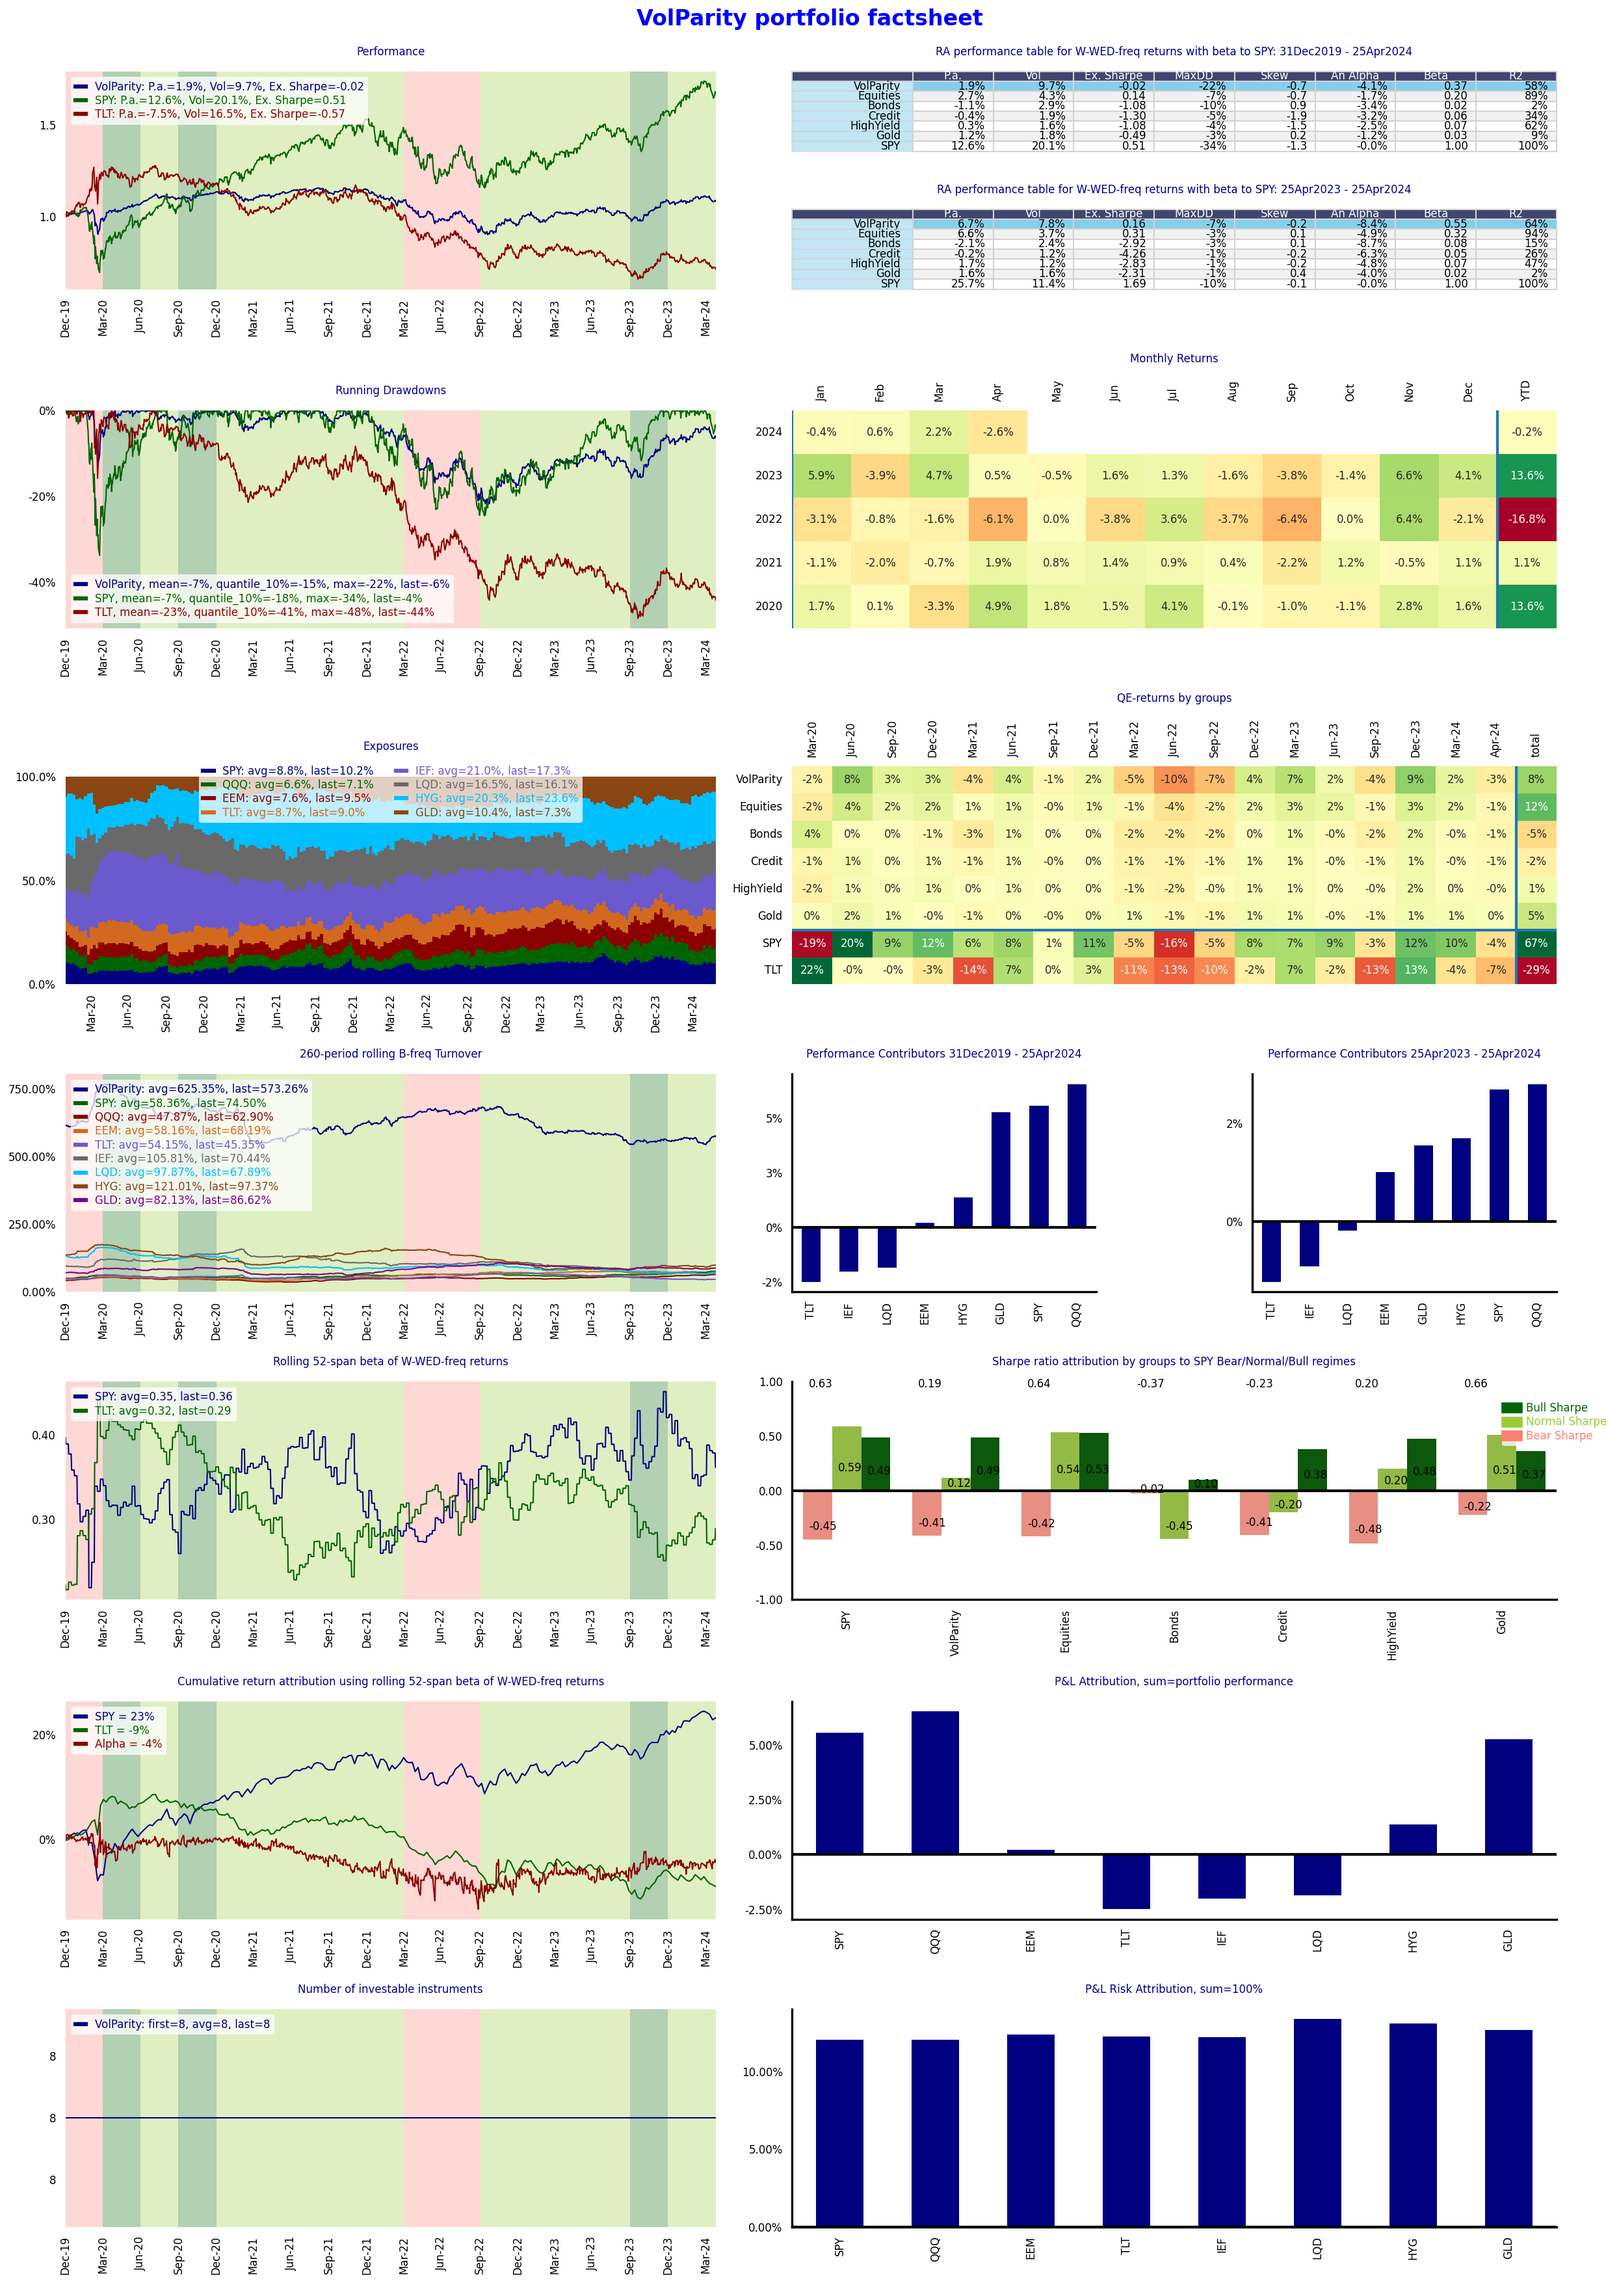
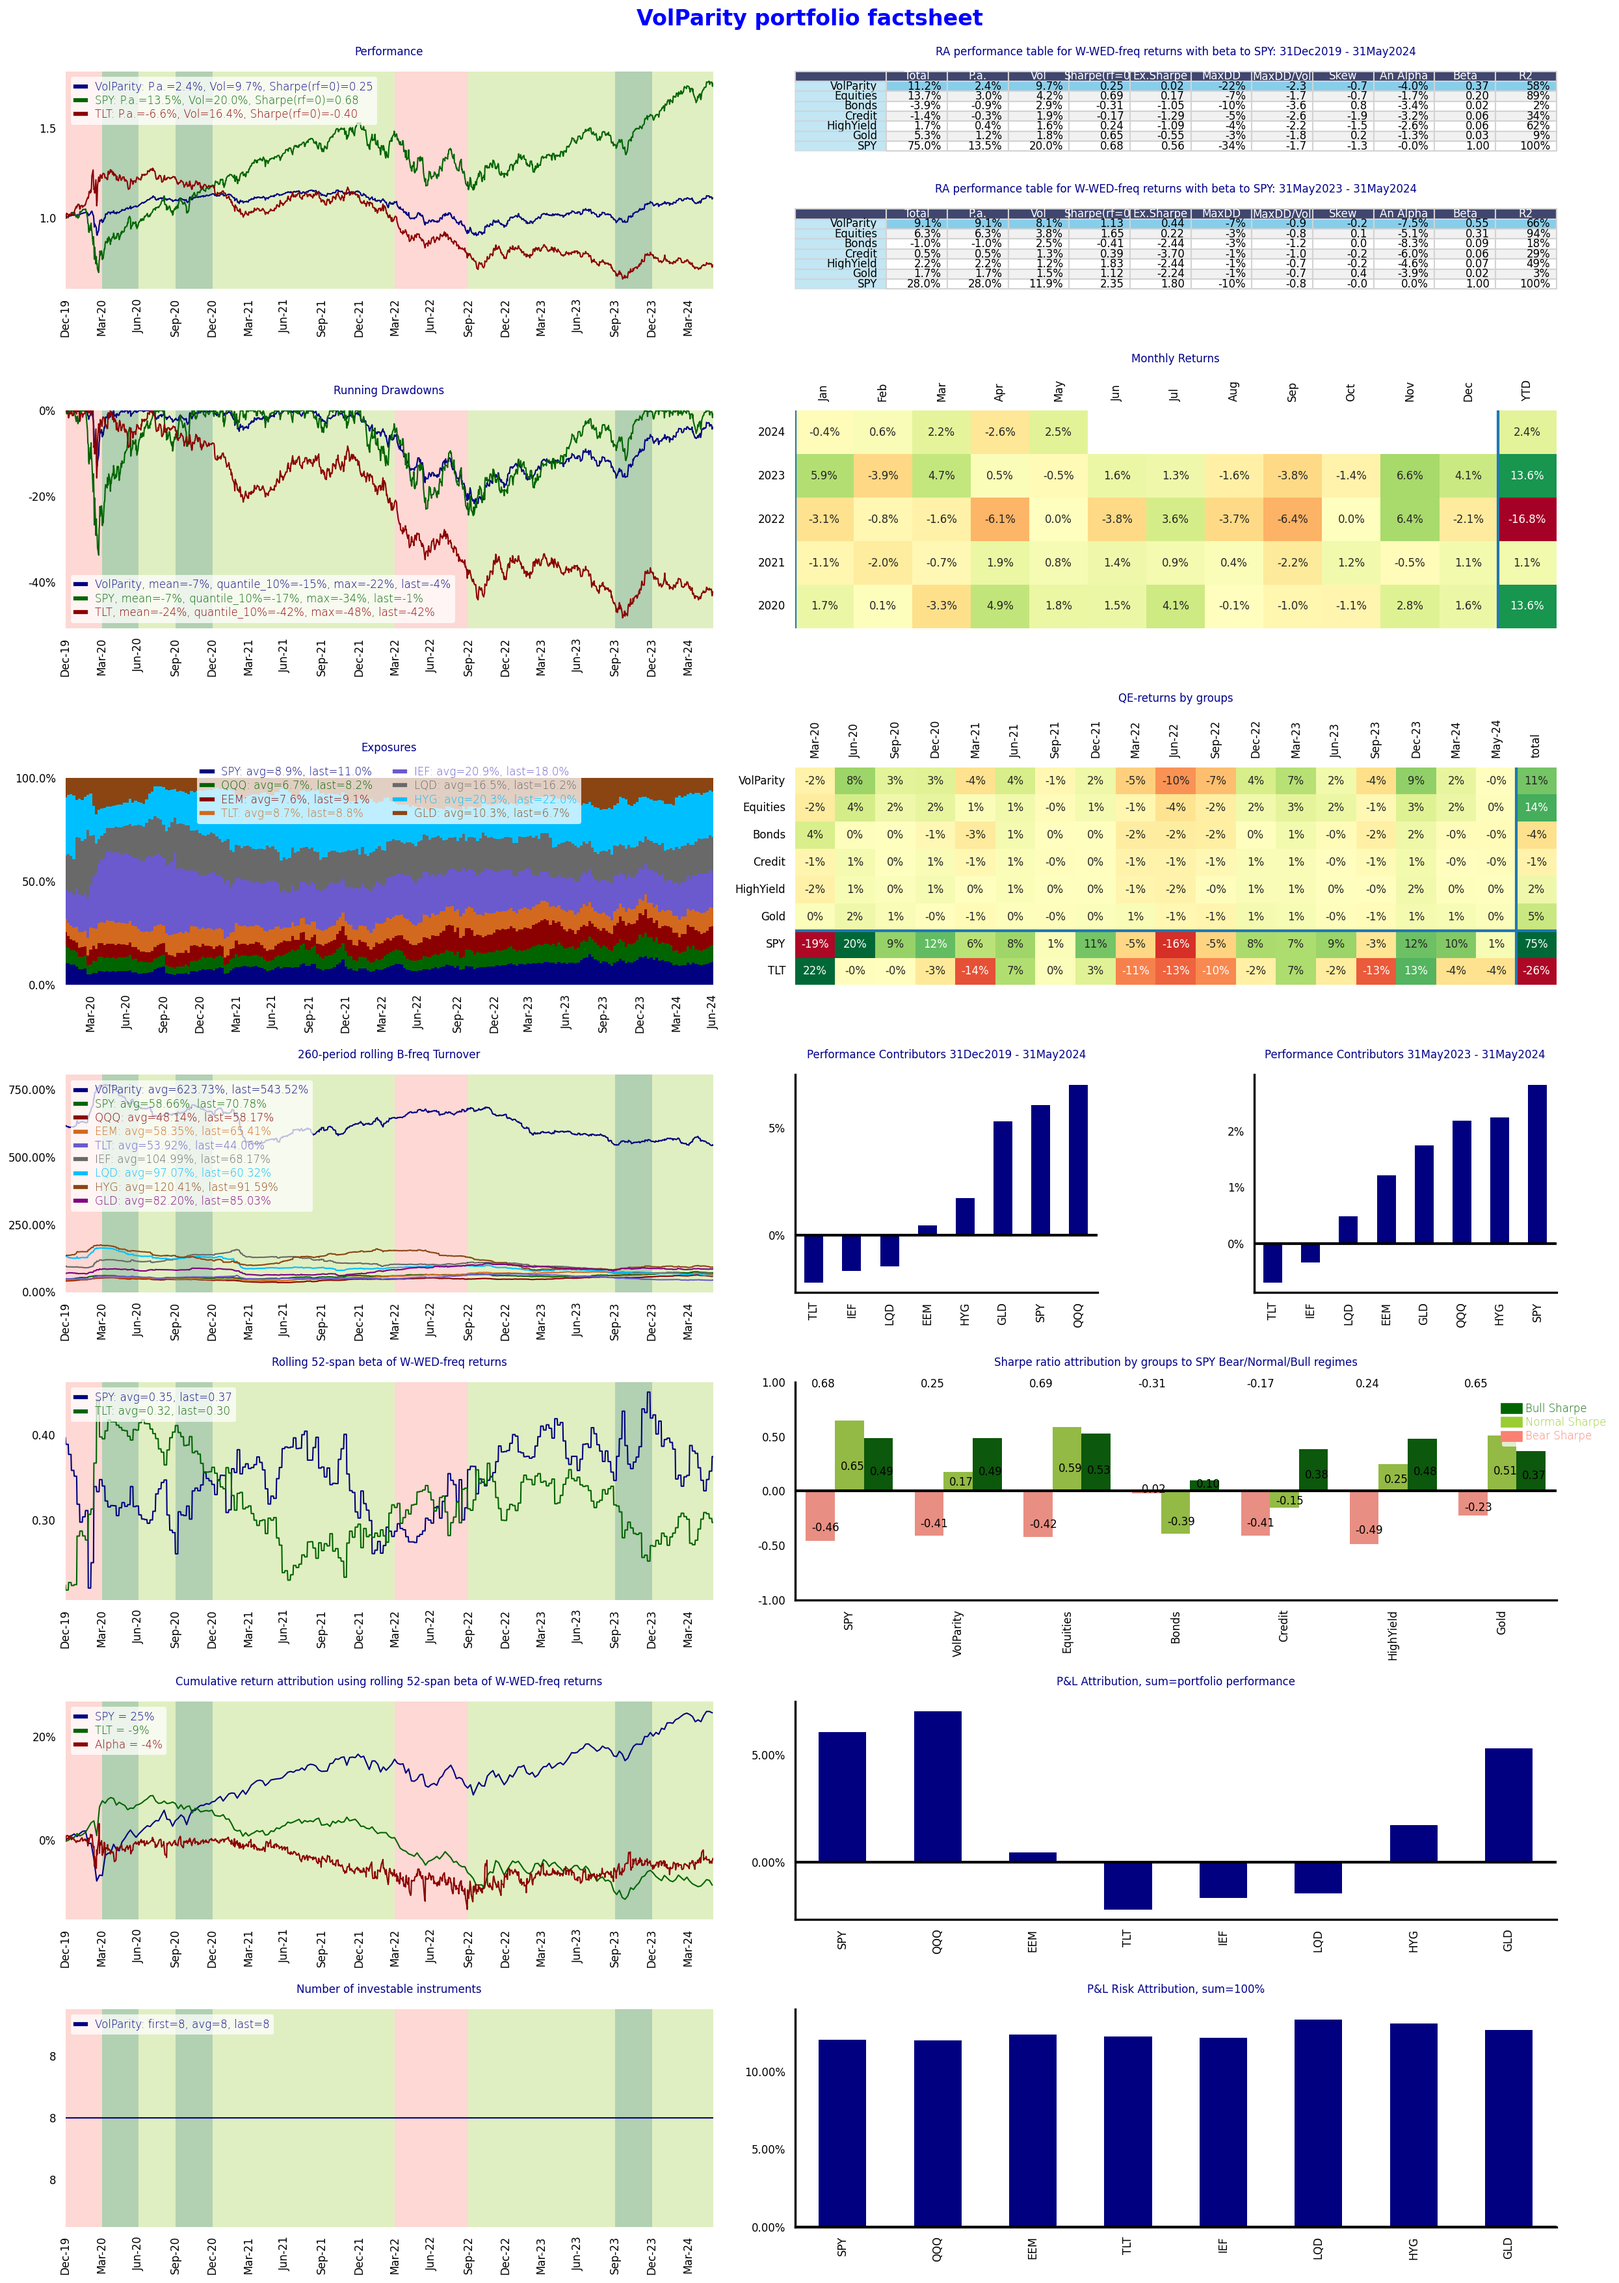
make default display of sharpe ratio to Sharpe(rf=0)

diff --git a/qis/examples/factsheets/multi_assets.py b/qis/examples/factsheets/multi_assets.py
@@ -15,6 +15,7 @@ from qis.portfolio.reports.config import fetch_default_report_kwargs
 class UnitTests(Enum):
     CORE_ETFS = 1
     BTC_SQQQ = 2
+    HEDGED_ETFS = 3
 
 
 def run_unit_test(unit_test: UnitTests):
@@ -22,22 +23,32 @@ def run_unit_test(unit_test: UnitTests):
     if unit_test == UnitTests.CORE_ETFS:
         benchmark = 'SPY'
         tickers = [benchmark, 'QQQ', 'EEM', 'TLT', 'IEF', 'LQD', 'HYG', 'SHY', 'GLD']
-        time_period = qis.TimePeriod('31Dec2007', '25Apr2024')  # time period for reporting
+        time_period = qis.TimePeriod('31Dec2007', '31May2024')  # time period for reporting
 
     elif unit_test == UnitTests.BTC_SQQQ:
         benchmark = 'QQQ'
         tickers = [benchmark, 'BTC-USD', 'TQQQ', 'SQQQ']
-        time_period = qis.TimePeriod('31Dec2019', '25Apr2024')
+        time_period = qis.TimePeriod('31Dec2019', '31May2024')
+
+    elif unit_test == UnitTests.HEDGED_ETFS:
+        benchmark = 'SPY'
+        tickers = [benchmark, 'SHY', 'LQDH', 'HYGH', 'FLOT']
+        time_period = qis.TimePeriod('27May2014', '31May2024')
 
     else:
         raise NotImplementedError
 
     prices = yf.download(tickers=tickers, start=None, end=None, ignore_tz=True)['Adj Close'][tickers]
     prices = prices.asfreq('B', method='ffill')  # make B frequency
+    prices = prices.dropna()
+    print(prices)
+
+    kwargs = fetch_default_report_kwargs(time_period=time_period)
+
     fig = generate_multi_asset_factsheet(prices=prices,
                                          benchmark=benchmark,
                                          time_period=time_period,
-                                         **fetch_default_report_kwargs(time_period=time_period))
+                                         **kwargs)
     qis.save_figs_to_pdf(figs=[fig],
                          file_name=f"multiasset_report", orientation='landscape',
                          local_path=qis.local_path.get_output_path())
@@ -48,7 +59,7 @@ def run_unit_test(unit_test: UnitTests):
 
 if __name__ == '__main__':
 
-    unit_test = UnitTests.CORE_ETFS
+    unit_test = UnitTests.HEDGED_ETFS
 
     is_run_all_tests = False
     if is_run_all_tests:

diff --git a/qis/examples/credit_spreads.py b/qis/examples/credit_spreads.py
@@ -1,0 +1,44 @@
+
+import pandas as pd
+import numpy as np
+import seaborn as sns
+import matplotlib.pyplot as plt
+import qis as qis
+from qis import PerfStat
+from bbg_fetch import fetch_field_timeseries_per_tickers
+
+assets = {'BASPCAAA Index': 'AAA10y',
+          'BICLA10Y Index': 'A10y',
+          'BICLB10Y Index': 'BAA10y',
+          'CSI BARC Index': 'HY 10Y'}
+
+spreads = fetch_field_timeseries_per_tickers(tickers=list(assets.keys()), field='PX_LAST', CshAdjNormal=True)
+spreads = spreads.rename(assets, axis=1)
+spreads['HY 10Y'] = 100.0*spreads['HY 10Y']
+# to %
+spreads = spreads / 10000.0
+
+predictors = {'SPXT Index': 'SPX', 'gt10 Govt': 'UST10y'}
+benchmarks = fetch_field_timeseries_per_tickers(tickers=list(predictors.keys()), field='PX_LAST', CshAdjNormal=True)
+benchmarks = benchmarks.rename(predictors, axis=1)
+print(benchmarks)
+qis.plot_time_series(spreads,
+                     var_format='{:,.2%}', x_date_freq='YE')
+
+freq = 'ME'
+
+df1 = pd.concat([benchmarks['SPX'].asfreq(freq, method='ffill').pct_change(),
+                 spreads.asfreq(freq, method='ffill').diff()], axis=1).dropna()
+
+qis.plot_scatter(df=df1, x='SPX')
+
+df2 = pd.concat([benchmarks['UST10y'].asfreq(freq, method='ffill').diff()/100.0,
+                 spreads.asfreq(freq, method='ffill').diff()], axis=1).dropna()
+
+qis.plot_scatter(df=df2, x='UST10y')
+
+plt.show()
+
+
+
+

diff --git a/qis/perfstats/config.py b/qis/perfstats/config.py
@@ -55,8 +55,8 @@ class PerfStat(ColVar, Enum):
     VOL = ColVar(name='Vol', short_n='An. vol', value_type=ValueType.PERCT)
     DOWNSIDE_VOL = ColVar(name='DownVol', short_n='DownVol', value_type=ValueType.PERCT)
     AVG_LOG_RETURN = ColVar(name='AvgLogReturn', short_n='AvgReturn', value_type=ValueType.PERCT)
-    SHARPE_RF0 = ColVar(name='Sharpe (rf=0)', short='Sharpe (rf=0)', short_n='Sharpe\n(rf=0)', value_type=ValueType.SHARPE)  # compounded returns with rate = 0.0
-    SHARPE_EXCESS = ColVar(name='Ex. Sharpe', short_n='Excess\nSharpe', value_type=ValueType.SHARPE)  # compunded with given rate
+    SHARPE_RF0 = ColVar(name='Sharpe (rf=0)', short='Sharpe(rf=0)', short_n='Sharpe\n(rf=0)', value_type=ValueType.SHARPE)  # compounded returns with rate = 0.0
+    SHARPE_EXCESS = ColVar(name='Ex. Sharpe', short='Ex.Sharpe', short_n='Excess\nSharpe', value_type=ValueType.SHARPE)  # compunded with given rate
     SHARPE_LOG_AN = ColVar(name='An. Log Sharpe', short_n='An. Log Sharpe', value_type=ValueType.SHARPE)  # log return
     SHARPE_AVG = ColVar(name='Sharpe Avg', short_n='Sharpe Avg', value_type=ValueType.SHARPE)  # using avg return
     SHARPE_LOG_EXCESS = ColVar(name='Log Sharpe', short_n='Log Sharpe', value_type=ValueType.SHARPE)

diff --git a/qis/portfolio/reports/multi_assets_factsheet.py b/qis/portfolio/reports/multi_assets_factsheet.py
@@ -85,7 +85,8 @@ class MultiAssetsReport:
                            perf_columns: List[PerfStat] = qis.BENCHMARK_TABLE_COLUMNS,
                            title: Optional[str] = None,
                            ax: plt.Subplot = None,
-                           **kwargs) -> None:
+                           **kwargs
+                           ) -> None:
         prices = self.get_prices(benchmark, time_period=time_period)
         title = title or f"RA performance table for {self.perf_params.freq_vol}-freq returns with beta to {benchmark}: {qis.get_time_period(prices).to_str()}"
         if len(prices.columns) >= 12:
@@ -406,7 +407,6 @@ def generate_multi_asset_factsheet(prices: pd.DataFrame,
                                    factsheet_name: str = None,
                                    **kwargs
                                    ) -> plt.Figure:
-
     # use passed benchmark
     if benchmark is None and benchmark_prices is not None:
         if benchmark_prices is None:

diff --git a/qis/portfolio/reports/config.py b/qis/portfolio/reports/config.py
@@ -12,6 +12,7 @@ REGIME_PARAMS = BenchmarkReturnsQuantileRegimeSpecs(freq='QE')
 PERF_COLUMNS = (PerfStat.TOTAL_RETURN,
                 PerfStat.PA_RETURN,
                 PerfStat.VOL,
+                PerfStat.SHARPE_RF0,
                 PerfStat.SHARPE_EXCESS,
                 PerfStat.MAX_DD,
                 PerfStat.MAX_DD_VOL,
@@ -44,8 +45,8 @@ class FactsheetConfig(NamedTuple):
     factor_beta_title: Optional[str] = None
     exposures_freq: str = 'W-WED'  # for plotting strategy exposures
     # general data
-    perf_columns = PERF_COLUMNS,
-    perf_stats_labels: List[PerfStat] = (PerfStat.PA_RETURN, PerfStat.VOL, PerfStat.SHARPE_EXCESS,)
+    perf_columns: List[PerfStat] = PERF_COLUMNS
+    perf_stats_labels: List[PerfStat] = (PerfStat.PA_RETURN, PerfStat.VOL, PerfStat.SHARPE_RF0,)
     short: bool = True  # ra columns
     # next depend on report time period
     heatmap_freq: str = 'YE'  # for heatmap

diff --git a/qis/examples/factsheets/strategy_benchmark.py b/qis/examples/factsheets/strategy_benchmark.py
@@ -84,7 +84,7 @@ class UnitTests(Enum):
 def run_unit_test(unit_test: UnitTests):
 
     # time period for portfolio reporting
-    time_period = qis.TimePeriod('31Dec2006', '24May2024')
+    time_period = qis.TimePeriod('31Dec2006', '31May2024')
     prices, benchmark_prices, group_data = fetch_riskparity_universe_data()
     multi_portfolio_data = generate_volparity_multiportfolio(prices=prices,
                                                              benchmark_prices=benchmark_prices,
@@ -134,7 +134,7 @@ def run_unit_test(unit_test: UnitTests):
 
 if __name__ == '__main__':
 
-    unit_test = UnitTests.ACTIVE_PERFORMANCE
+    unit_test = UnitTests.STRATEGY_BENCHMARK_PLT
 
     is_run_all_tests = False
     if is_run_all_tests:

diff --git a/qis/examples/factsheets/multi_strategy.py b/qis/examples/factsheets/multi_strategy.py
@@ -63,14 +63,14 @@ def generate_volparity_multi_strategy(prices: pd.DataFrame,
 
 
 class UnitTests(Enum):
-        VOLPARITY_SPAN = 1
+    VOLPARITY_SPAN = 1
 
 
 def run_unit_test(unit_test: UnitTests):
 
     if unit_test == UnitTests.VOLPARITY_SPAN:
 
-        time_period = qis.TimePeriod('31Dec2005', '25Apr2024')  # time period for portfolio reporting
+        time_period = qis.TimePeriod('31Dec2005', '31May2024')  # time period for portfolio reporting
 
         prices, benchmark_prices, group_data = fetch_riskparity_universe_data()
         multi_portfolio_data = generate_volparity_multi_strategy(prices=prices,

diff --git a/qis/portfolio/reports/multi_strategy_factsheet.py b/qis/portfolio/reports/multi_strategy_factsheet.py
@@ -103,7 +103,7 @@ def generate_multi_portfolio_factsheet(multi_portfolio_data: MultiPortfolioData,
 
     multi_portfolio_data.plot_performance_bars(ax=fig.add_subplot(gs[0, 2]),
                                                perf_params=perf_params,
-                                               perf_column=PerfStat.SHARPE_EXCESS,
+                                               perf_column=PerfStat.SHARPE_RF0,
                                                time_period=time_period,
                                                **qis.update_kwargs(kwargs, dict(fontsize=fontsize)))
 

diff --git a/qis/examples/factsheets/strategy.py b/qis/examples/factsheets/strategy.py
@@ -85,7 +85,7 @@ class UnitTests(Enum):
 
 def run_unit_test(unit_test: UnitTests):
 
-    time_period = qis.TimePeriod('31Dec2005', '25Apr2024')  # time period for portfolio reporting
+    time_period = qis.TimePeriod('31Dec2005', '31May2024')  # time period for portfolio reporting
     time_period_short = TimePeriod('31Dec2019', time_period.end)
     rebalancing_costs = 0.0010  # per traded volume
 

diff --git a/qis/examples/vix_conditional_returns.py b/qis/examples/vix_conditional_returns.py
@@ -1,4 +1,9 @@
-import pandas as pd
+"""
+compute and display conditial returns on short front month VIX future strategy SPVXSPI conditioned on
+different predictors: VIX and vols
+"""
+
+import pandas as pd
 import numpy as np
 import seaborn as sns
 import matplotlib.pyplot as plt

diff --git a/setup.py b/setup.py
@@ -16,7 +16,7 @@ requirements = read_requirements("requirements.txt")
 
 setup(
     name='qis',
-    version='2.0.67',
+    version='2.0.68',
     author='Artur Sepp',
     author_email='artursepp@gmail.com',
     url='https://github.com/ArturSepp/QuantInvestStrats',
